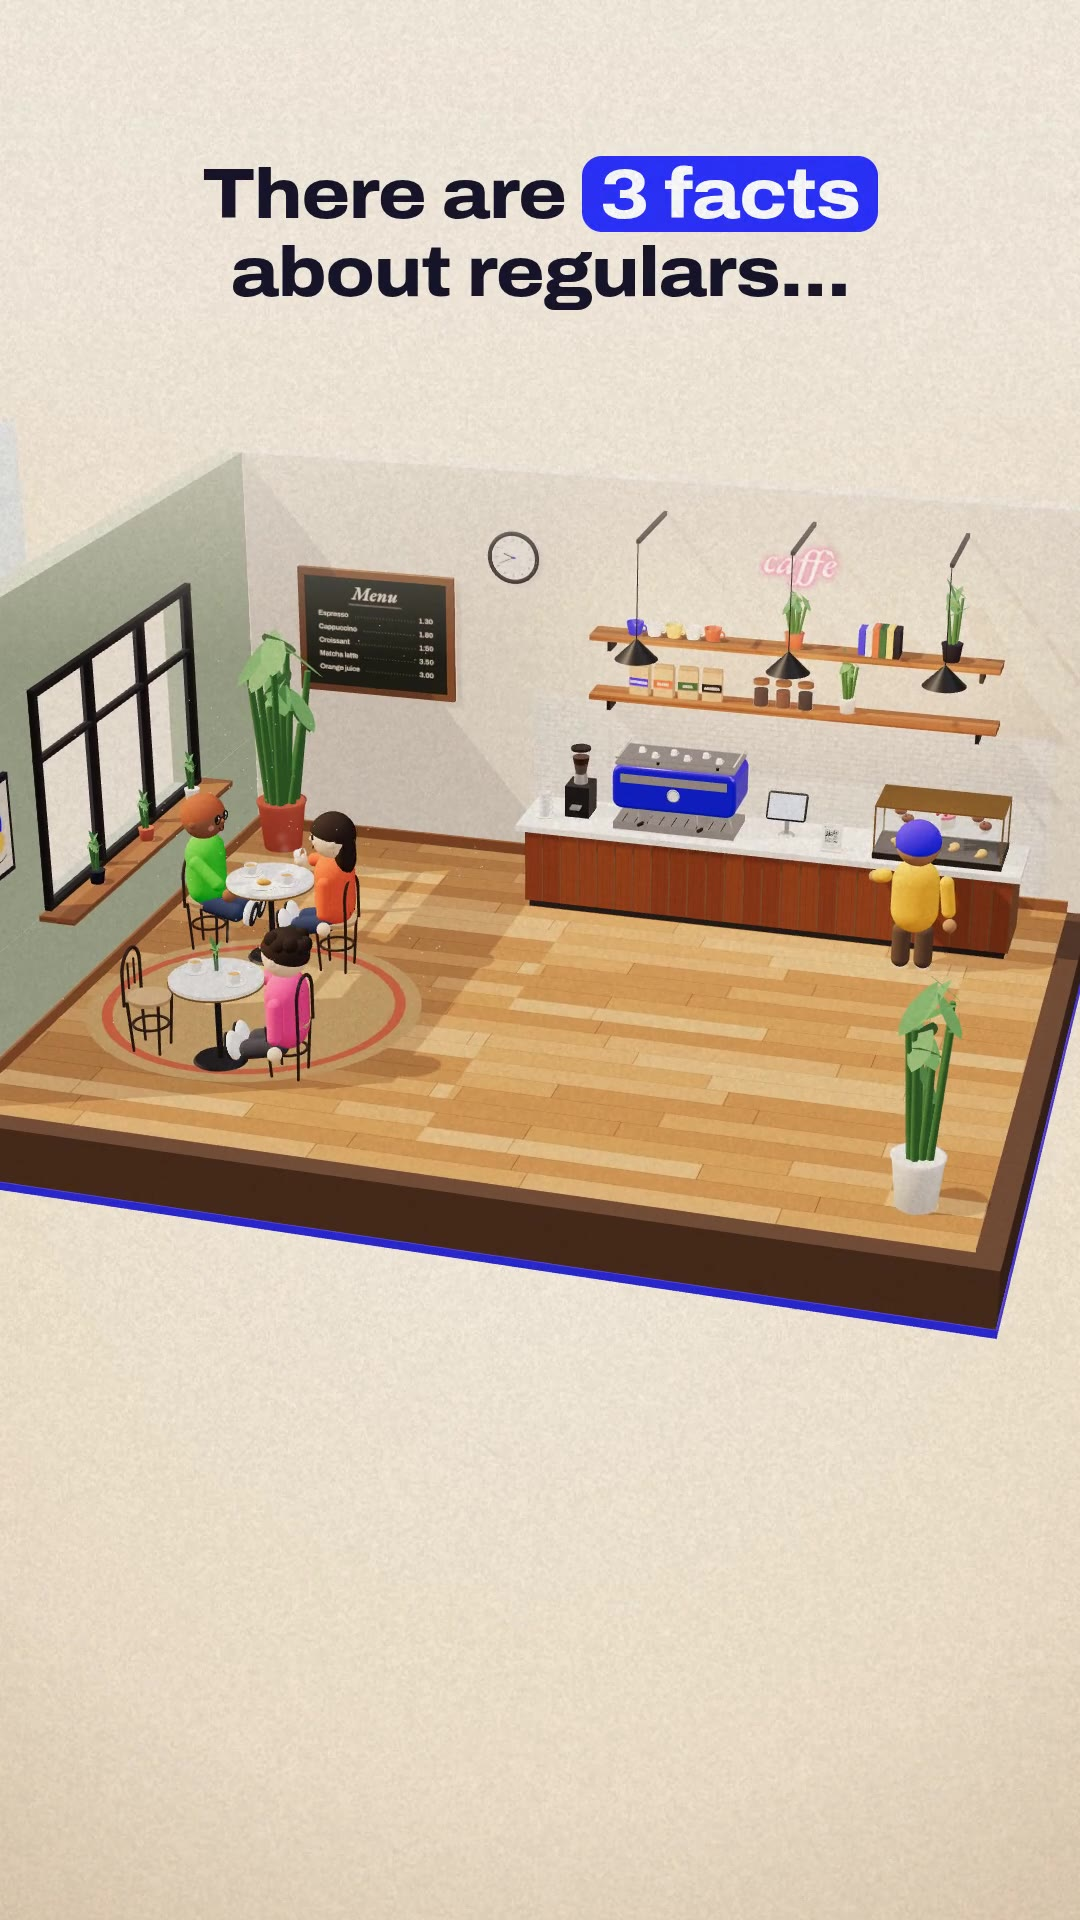
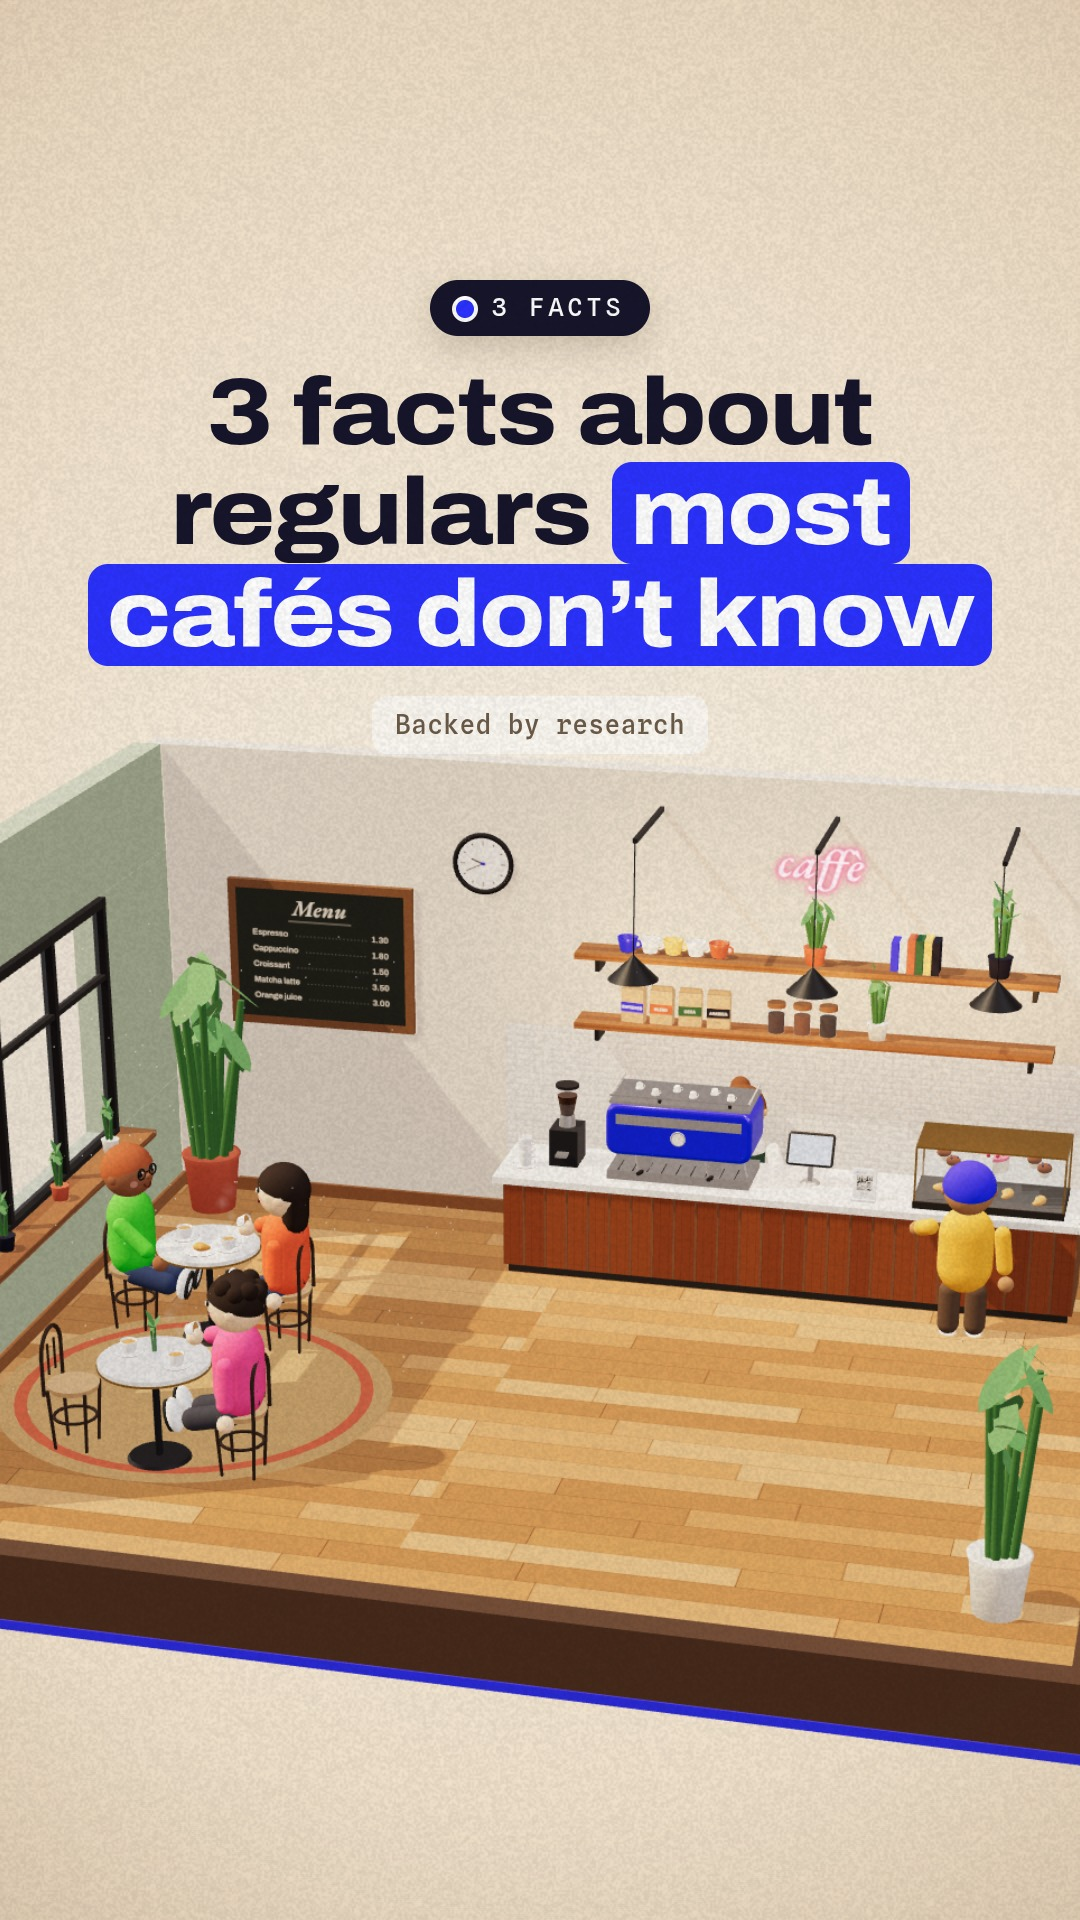
Animation: 3 facts covers with the title in the grid's safe area; barista stays behind the counter
The opening drop added to the barista's height every frame and never reset it, so the
rendered videos have no barista; the next render will.

Claude-Session: https://claude.ai/code/session_015Jxz3uYVBeA1BfejC8Sdvv

diff --git a/marketing/animation/tre-fatti.html b/marketing/animation/tre-fatti.html
@@ -789,7 +789,7 @@ function renderAt(t) {
 
   // the café's life: the barista works, the guest at the counter scans, steam and dust drift
   barista.arms[0].rotation.x = -.9 + Math.sin(t * 3.1) * .25; barista.arms[1].rotation.x = -1.1 + Math.sin(t * 2.3 + 1) * .3;
-  barista.g.rotation.y = Math.sin(t * .7) * .35; barista.g.position.x = .5 + Math.sin(t * .45) * .25;
+  barista.g.rotation.y = Math.sin(t * .7) * .35; barista.g.position.set(.5 + Math.sin(t * .45) * .25, 0, -2.55);
   counterGuest.g.position.y = Math.abs(Math.sin(t * 1.6)) * .01;
   seated.forEach(([p, x, z], i) => { p.g.position.y = .07; p.head.rotation.y = Math.sin(t * .9 + i * 2) * .3; p.head.rotation.x = Math.sin(t * 1.3 + i) * .06; if (p.arms) p.arms[0].rotation.x = -.9 + Math.max(0, Math.sin(t * .8 + i * 3)) * -.5; });
   steams.forEach(s => { const { x, y, z, i, n, size } = s.userData; const u = ((t * .45 + i / n) % 1); s.position.set(x + Math.sin(u * 6 + i) * .03, y + u * .35, z); s.scale.setScalar(size * (.6 + u * 1.4)); s.material.opacity = Math.sin(u * Math.PI) * .32; });
